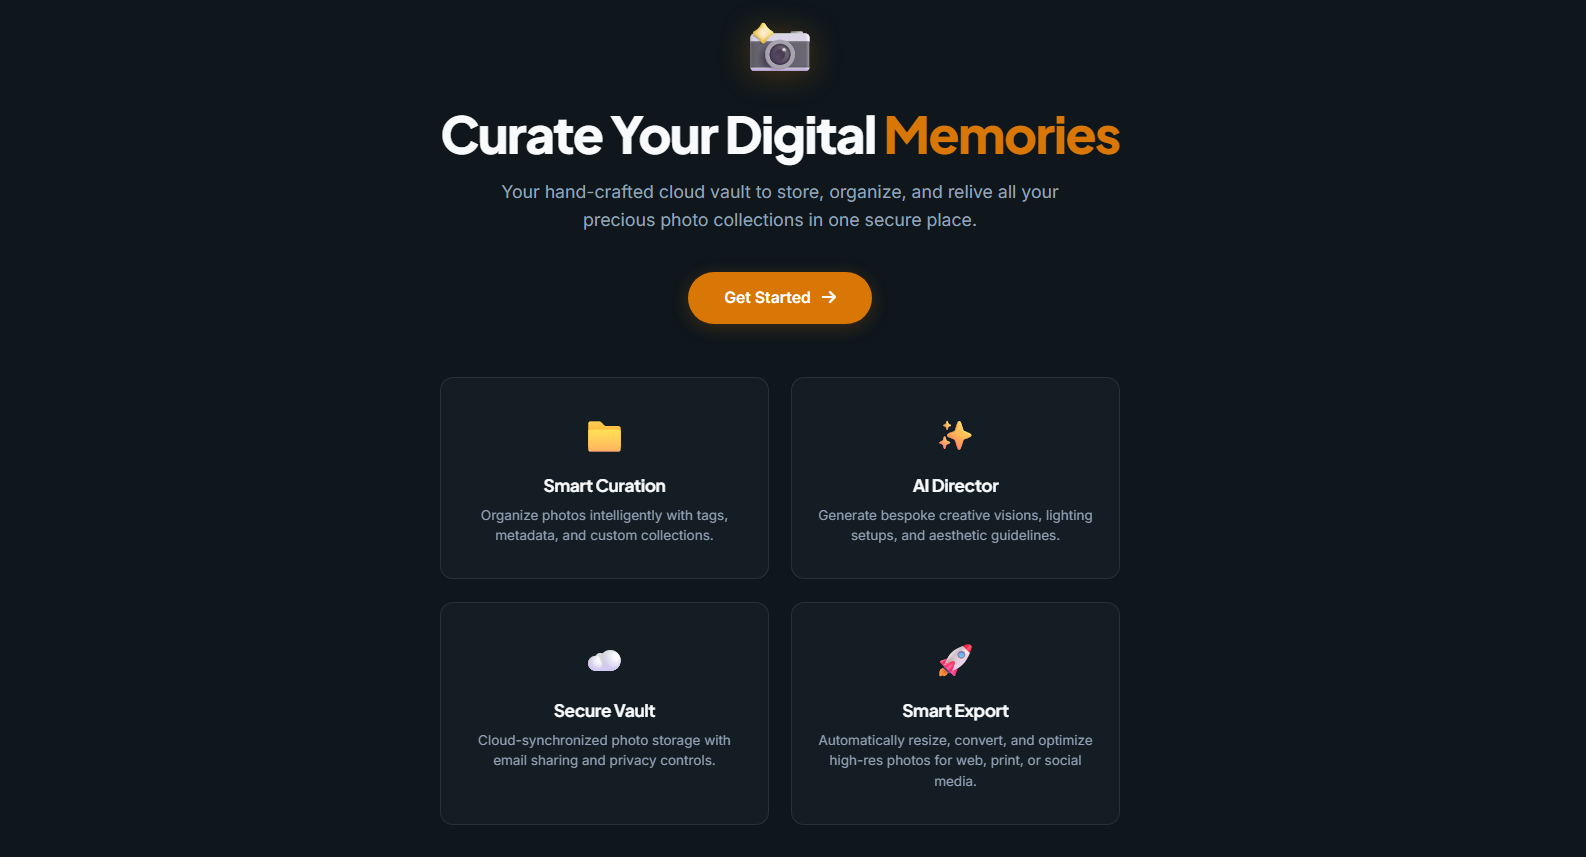
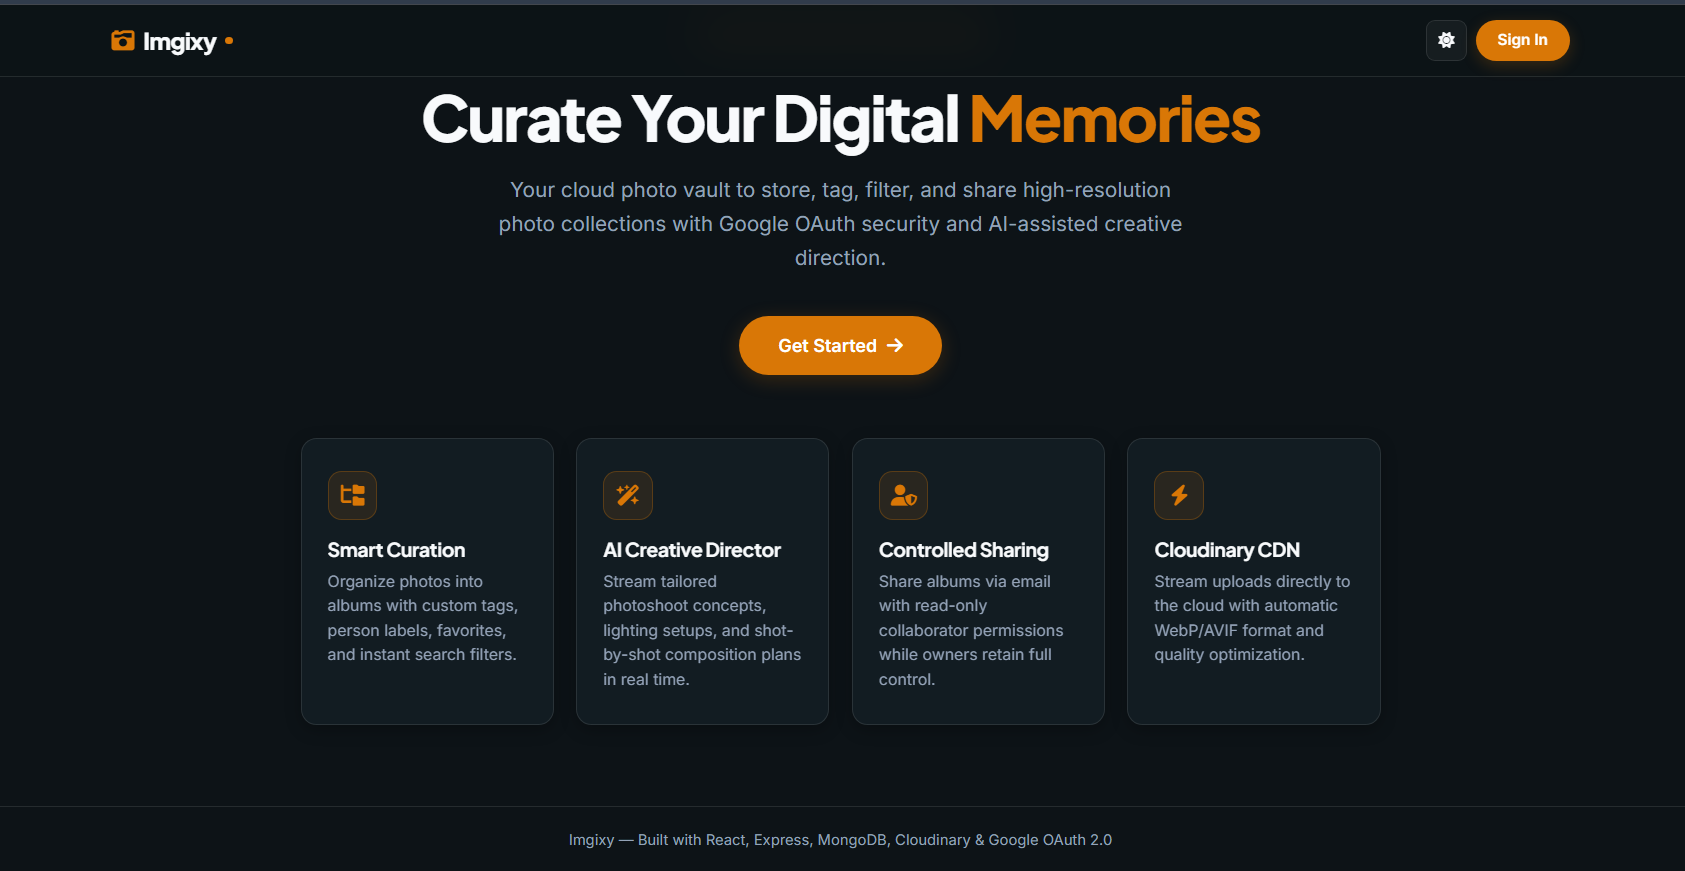
Docs: test & review feature and update README.md

diff --git a/README.md b/README.md
@@ -6,7 +6,7 @@ Imgixy is a full-stack cloud image management system where users can securely up
 
 ## Live Demo & Walkthrough
 
-- **Live Demo:** [https://placecode.co/](https://placecode.co/)
+- **Live Demo:** [https://imgixy-1f4i.vercel.app/](https://imgixy-1f4i.vercel.app/)
 - **Walkthrough Video (5–7 mins):** [Watch on Google Drive](https://drive.google.com/file/d/1I6qPh8k2N3v797tYNQmUhBB3up818tEe/view?usp=sharing)
 
 ---
